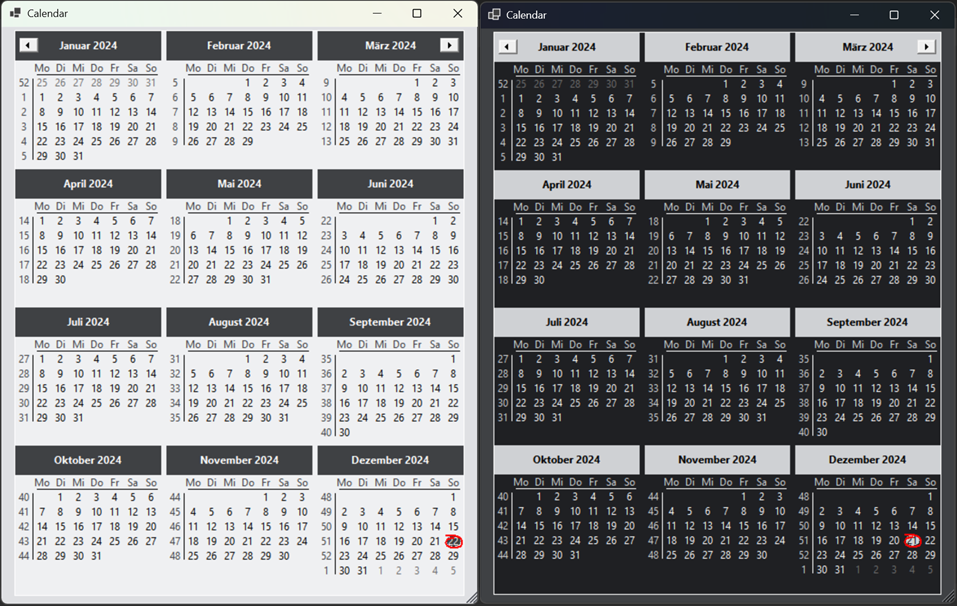
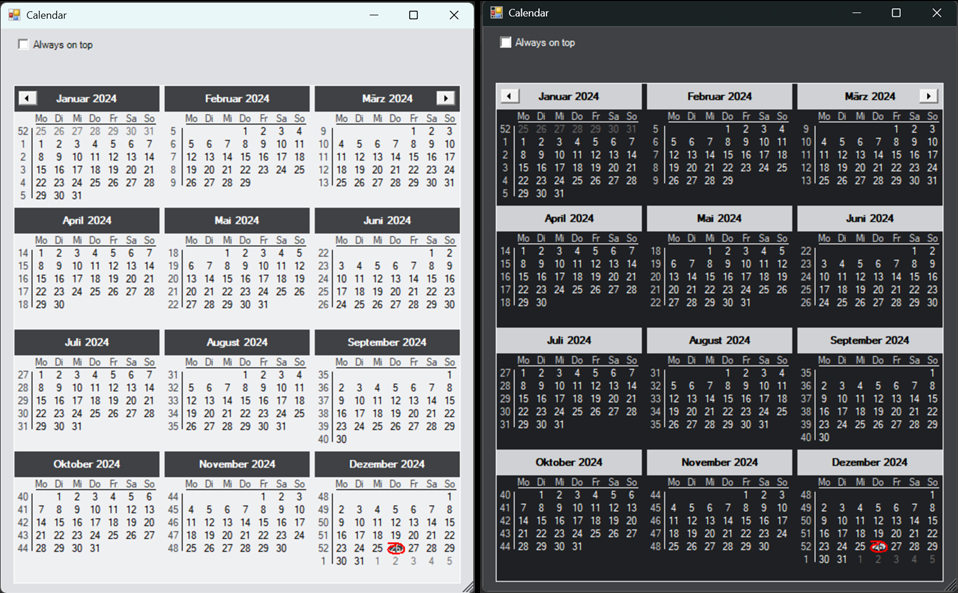
Add 'Always on top' option

diff --git a/README.md b/README.md
@@ -1,1 +1,3 @@
+![light vs. dark](./light_dark_mode_appearance.png)  
+
 As the Windows Calendar app is gone now, I just wrote a simple script basically because I frequently need to know week numbers in my daily business.  
